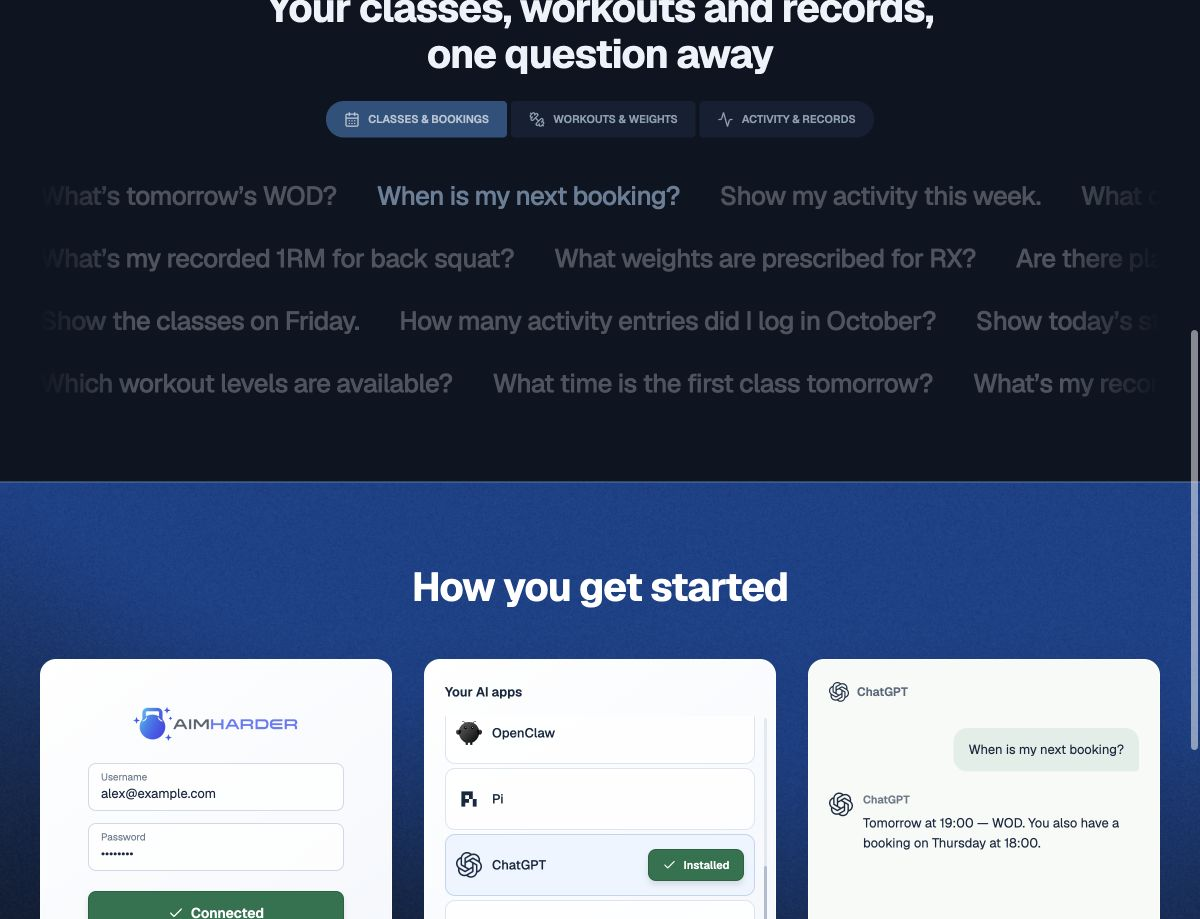
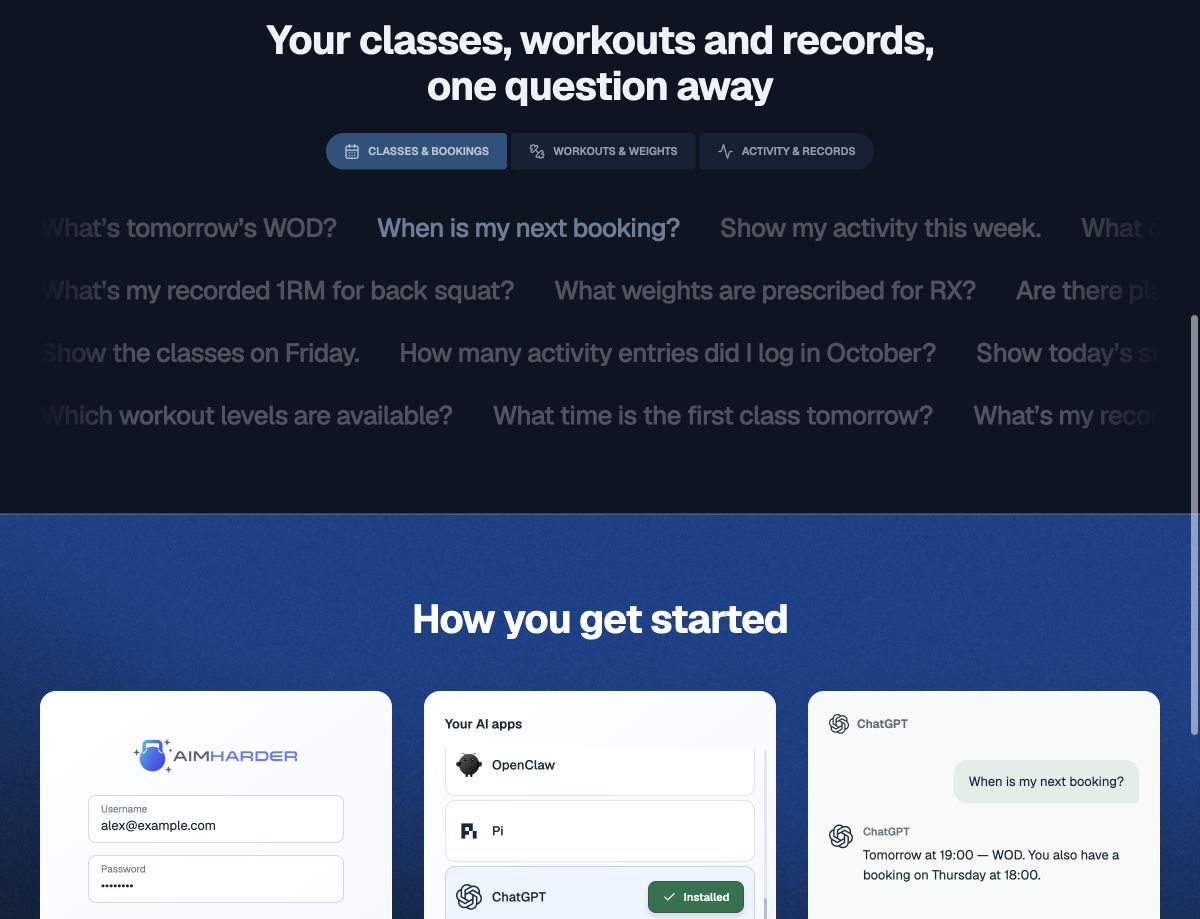
design: match step number size and use light blue #95

diff --git a/design/home-study/hero-motion-prototype.html b/design/home-study/hero-motion-prototype.html
@@ -6,4 +6,4 @@
 @media(max-width:1320px){.kettle{left:-60px;top:116px;width:300px;height:344px}.kettle img{width:435.13px;height:435.13px;left:-68px;top:-57.79px}.answer{width:300px}.ground{left:-36px;top:450px;width:266px}.ground::after{left:34px;width:198px}}
 @media(max-width:1150px){.hero{grid-template-columns:46% 1fr;gap:40px}h1{font-size:50px}.brand{font-size:20px}.utilities{gap:16px}.nav{gap:24px}.question{width:270px}.answer{width:300px}.kettle{left:-70px}.apps{gap:12px}.app{font-size:12px;gap:5px}}
 @media(max-width:850px){.container{width:calc(100% - 40px)}.header-inner{grid-template-columns:1fr auto;min-height:80px}.nav{display:none}.utilities{gap:16px}.language{display:none}.hero{display:block;padding-top:28px}.pitch{max-width:532px}.scene{height:520px;margin:32px auto 0;max-width:596px}.kettle{left:0;top:126px}.ground{top:460px}.question{right:0}.answer{right:0}.apps{flex-wrap:wrap}h1{font-size:44px}.header-signin{min-width:100px;padding:12px 18px}.brand{font-size:17px}.brand img{width:35px;height:40px}}
[2 lines of base64/hex data omitted]

diff --git a/design/home-study/how-to.css b/design/home-study/how-to.css
@@ -54,9 +54,9 @@
   user-select: none;
 }
 .how-step figcaption { margin-top: 24px; }
-.how-step-title { display: flex; align-items: baseline; gap: 12px; color: var(--how-caption); }
-.how-step-number { font-size: 15px; font-weight: 500; }
-.how-step h3 { margin: 0; font-size: 20px; font-weight: 600; line-height: 1.4; letter-spacing: -.35px; }
+.how-step-title { --how-step-title-size: 20px; display: flex; align-items: baseline; gap: 12px; color: var(--how-caption); }
+.how-step-number { font-size: var(--how-step-title-size); line-height: 1.4; font-weight: 500; color: #2490f4; }
+.how-step h3 { margin: 0; font-size: var(--how-step-title-size); font-weight: 600; line-height: 1.4; letter-spacing: -.35px; }
 .how-step-description { margin: 10px 0 0; color: var(--how-description); font-size: 15px; line-height: 1.5; }
 .connect-demo { width: min(256px, calc(100% - 48px)); margin: 44px auto 0; }
 .connect-logo { display: block; width: 170px; height: 38px; object-fit: contain; margin: 0 auto 21px; }
@@ -122,7 +122,7 @@
 @keyframes how-dot { 50% { transform: translateY(-3px); opacity: .45; } }
 @media(max-width:1100px) {
   .how-grid { gap: 24px; }
-  .how-step h3 { font-size: 18px; }
+  .how-step-title { --how-step-title-size: 18px; }
   .service-option { gap: 8px; padding: 8px; }
   .service-symbol { width: 22px; height: 22px; }
   .service-name { font-size: 12px; }

diff --git a/design/home-study/how-to-study.md b/design/home-study/how-to-study.md
@@ -54,3 +54,5 @@ Two-axis review against `fa244c2...764b5ac`: **Standards 0 findings; Spec 0 find
 Owner-refinement review against `f85c854...4bf267c`: Standards 0 findings; Spec 0 findings. Syntax, current 75 asset hashes and changed study links passed. No runtime/API/security decisions changed; ADRs remain unaffected.
 
 Top-edge refinement (2026-11-02): How to now has a 1px upper border matching the hero’s lower border exactly: `#79a4dc` in Light and `#2d609b` in Dark. Native Pen uses the same top stroke. Background-only exports omit this separate border. No animation, content, scope or ADR decision changes.
+
+Step-number refinement (2026-11-02): numbers use the same type size and line height as their block titles: 20px / 1.4 at desktop, 18px / 1.4 at the existing ≤1100px breakpoint. They use the existing light brand blue `#2490f4` in both appearances. Native desktop numbers match at 20px. No other content, animation, scope or ADR decisions changed.
